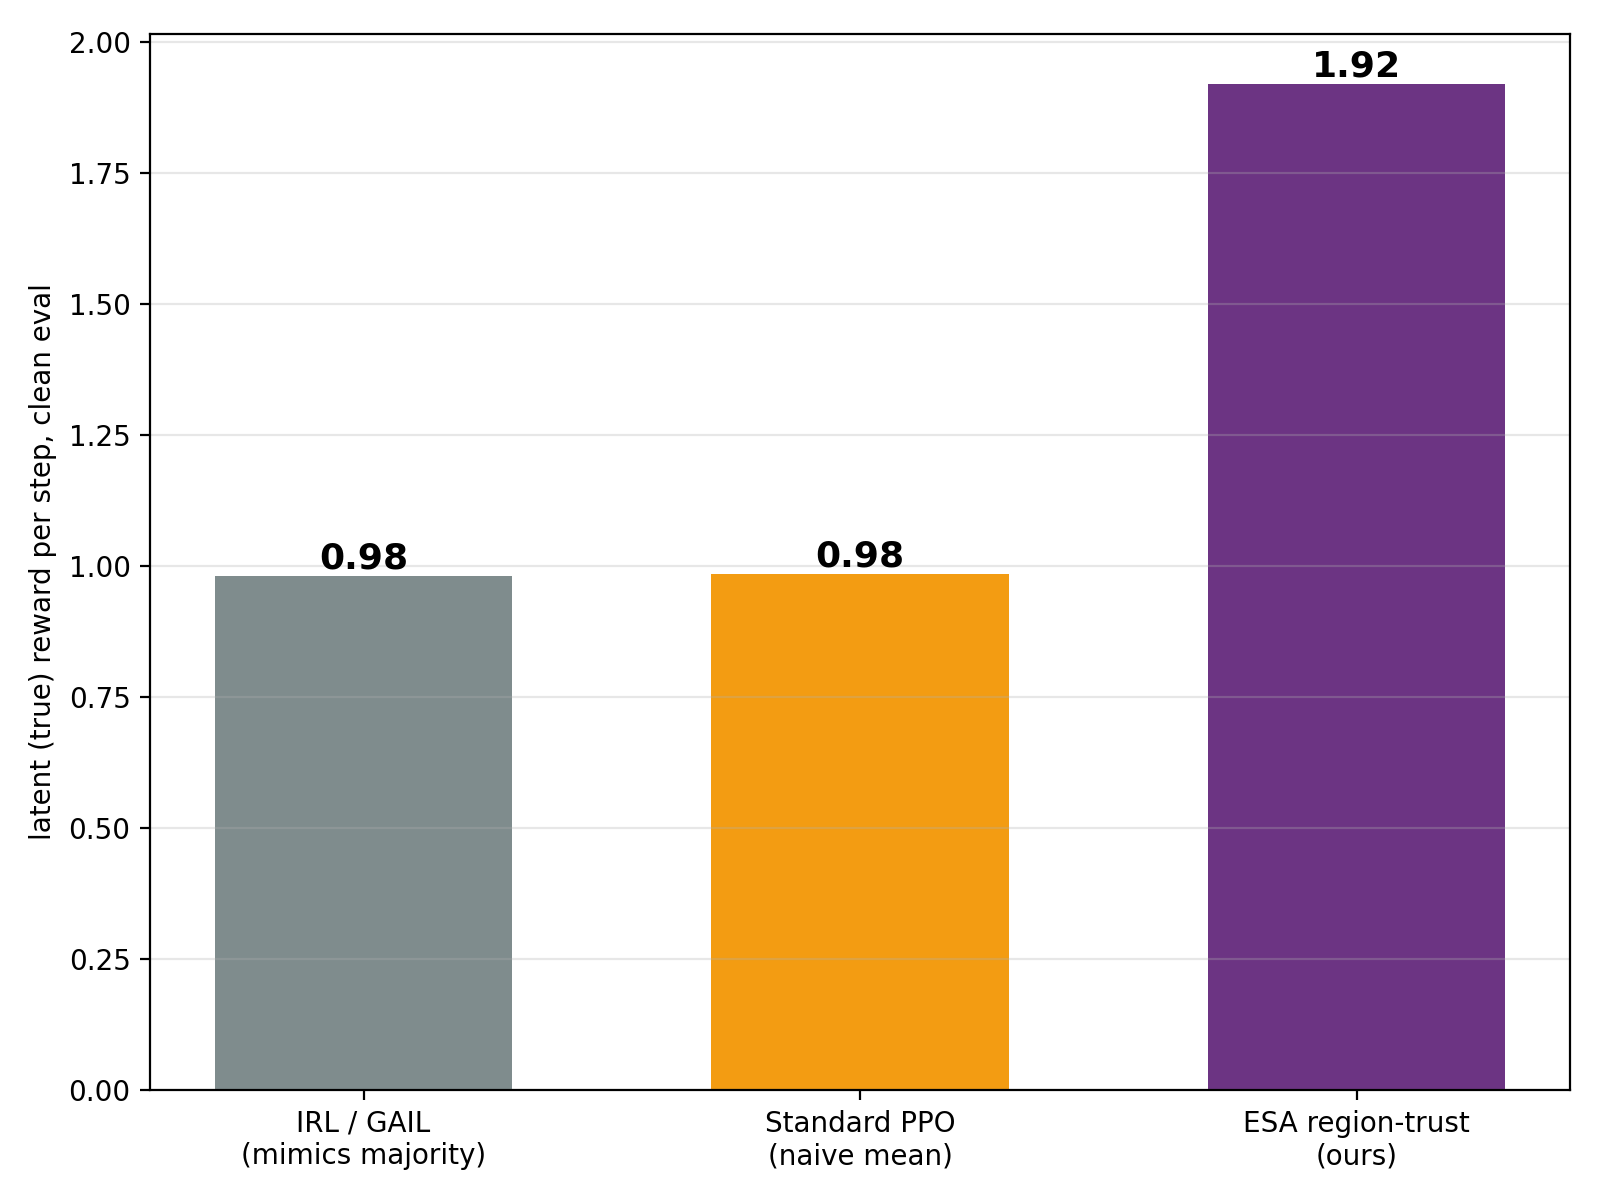
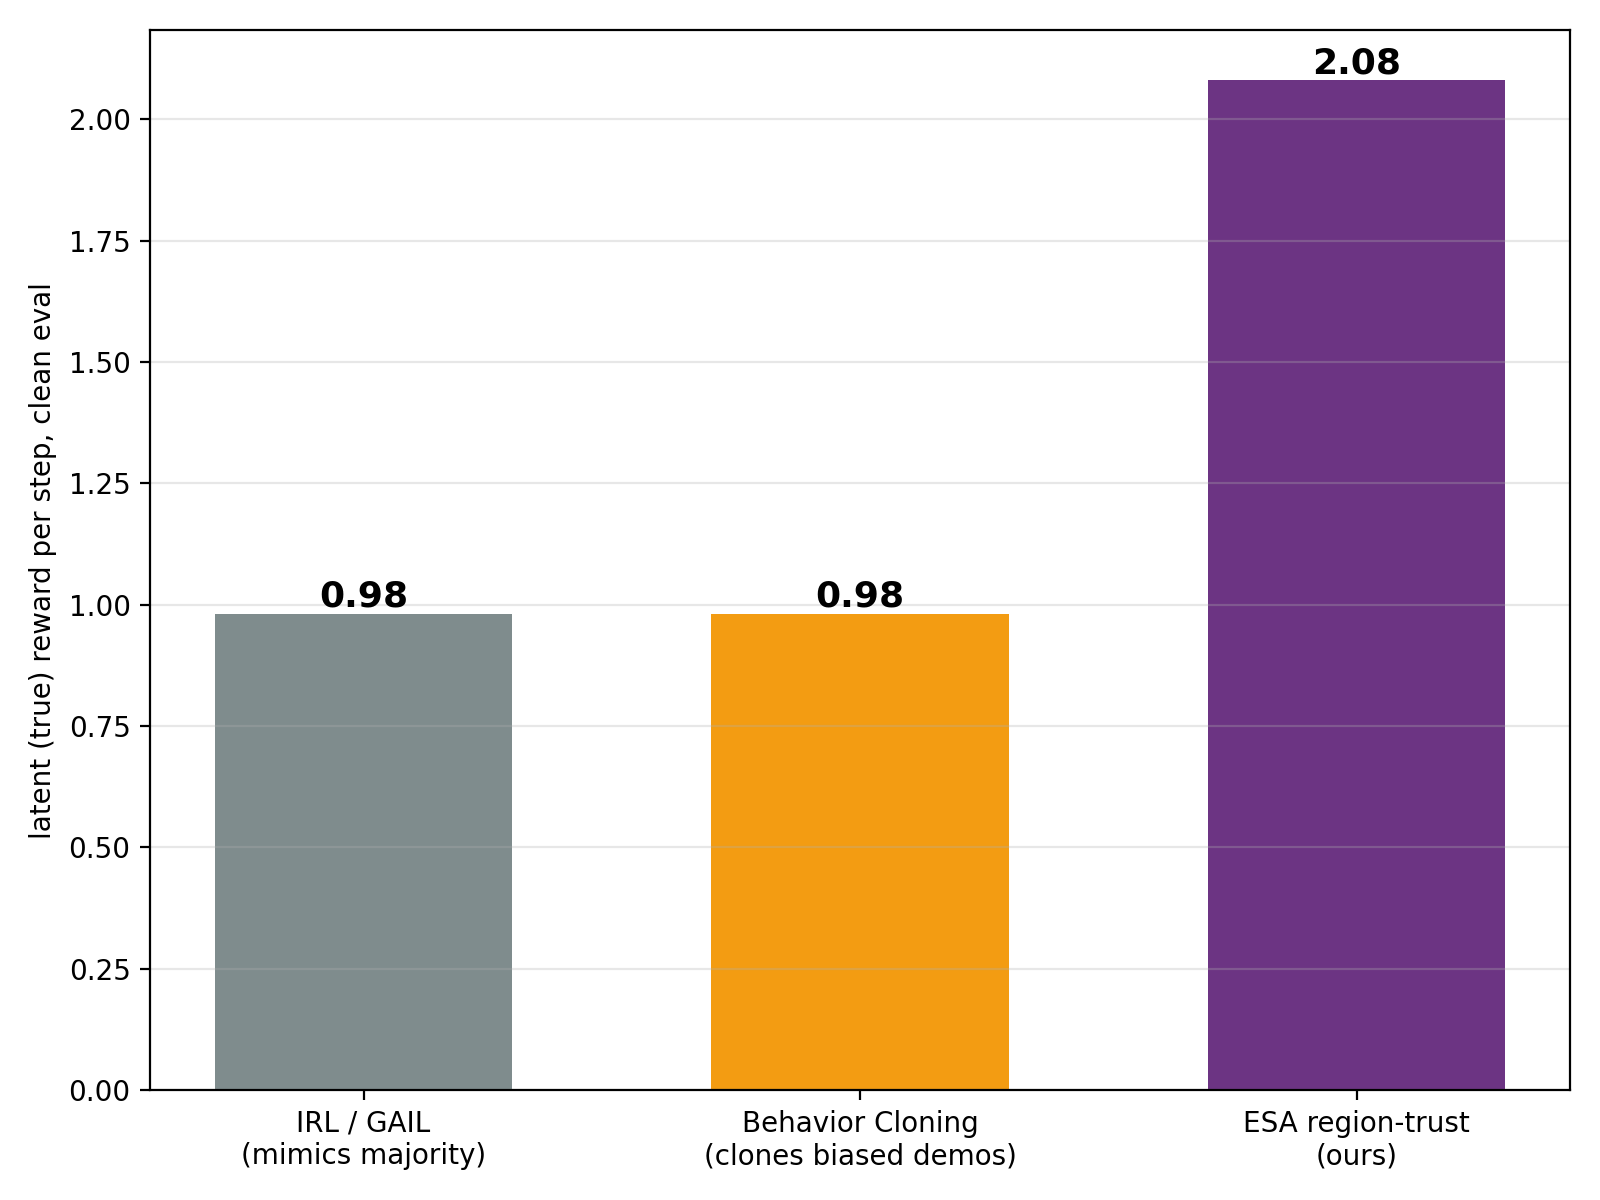
hopper imitation figure: drop Standard PPO, add Behavior Cloning
The imitation comparison now shows IRL/GAIL, Behavior Cloning, and ESA (PPO removed).
BC is a supervised MLP fit to (state->action) demonstrations rolled out from the
biased sycophantic-reward expert -- pure imitation, no reward. Both imitation
baselines reproduce the biased low-velocity behavior (latent 0.98) while ESA recovers
forward hopping (2.08). Figure regenerated title-free.

diff --git a/exp_mdp_hopper_irl.py b/exp_mdp_hopper_irl.py
@@ -1,19 +1,21 @@
 """
-v2 rewrite of the IRL/GAIL comparison in advanced_experiments.py
+v2 rewrite of the imitation comparison in advanced_experiments.py
 (advanced_experiments_irl.png).
 
-An IRL/GAIL agent recovers a reward by imitating the demonstrator/majority. When
-the majority is sycophantic (lazy: y = latent - 2*v_x), imitation reproduces the
+Imitation learners recover behavior/reward from a demonstrator. When the
+demonstrator is sycophantic (lazy: y = latent - 2*v_x), imitation reproduces the
 biased objective and the recovered policy stops hopping. ESA instead audits the
-source against the reference and keeps the latent objective. We train:
+source against the reference and keeps the latent objective. We compare:
 
-  * IRL/GAIL proxy : PPO on the sycophantic reward directly (mimics the biased
-                     majority) -- the imitation baseline.
-  * Standard PPO   : PPO on the naive mean of the 80% biased panel.
-  * ESA (ours)     : PPO on the region-trust ESA reward (esa_mdp.ContextualTrust).
+  * IRL / GAIL       : PPO on the sycophantic reward directly (recovers & optimizes
+                       the biased reward -- inverse-RL / adversarial-imitation proxy).
+  * Behavior Cloning : supervised MLP fit to (state -> action) on demonstrations
+                       rolled out from the biased expert; no reward, pure imitation.
+  * ESA (ours)       : PPO on the region-trust ESA reward (esa_mdp.ContextualTrust).
 
-then evaluate every trained policy on the CLEAN latent Hopper reward and bar-chart
-the mean latent reward per step. MuJoCo + SB3.
+Every trained policy is evaluated on the CLEAN latent Hopper reward and bar-charted.
+Both imitation baselines reproduce the biased low-velocity behavior; only ESA
+recovers forward hopping. MuJoCo + SB3 + a small torch BC head.
 """
 import argparse
 import numpy as np
@@ -26,25 +28,72 @@ from exp_mdp_hopper import StrategicHopperWrapper
 
 
 class SycophanticRewardWrapper(gym.Wrapper):
-    """The demonstrator's (biased) reward the IRL/GAIL agent imitates."""
+    """The demonstrator's (biased) reward the imitation learners see."""
     def step(self, action):
         obs, latent, term, trunc, info = self.env.step(action)
         xv = info.get("x_velocity", latent)
         return obs, latent - 2.0 * xv, term, trunc, info
 
 
-def train(kind, timesteps, seed):
+def train_ppo(kind, timesteps, seed):
     def make():
         e = gym.make("Hopper-v4", render_mode=None)
         if kind == "irl":
             return SycophanticRewardWrapper(e)
         return StrategicHopperWrapper(e, {"rewards": [], "liar_weight": [],
-                                          "bias_mag": [], "audits": []},
-                                      method="standard" if kind == "standard" else "esa")
+                                          "bias_mag": [], "audits": []}, method="esa")
     env = VecMonitor(DummyVecEnv([make]))
     model = PPO("MlpPolicy", env, verbose=0, device="auto", seed=seed)
     model.learn(total_timesteps=timesteps)
     return model
+
+
+def collect_demos(model, n=8000, seed=7):
+    env = gym.make("Hopper-v4", render_mode=None)
+    obs, _ = env.reset(seed=seed)
+    O, A = [], []
+    for _ in range(n):
+        a, _ = model.predict(obs, deterministic=True)
+        O.append(np.asarray(obs, dtype=np.float32)); A.append(np.asarray(a, dtype=np.float32))
+        obs, _, term, trunc, _ = env.step(a)
+        if term or trunc:
+            obs, _ = env.reset()
+    env.close()
+    return np.array(O, dtype=np.float32), np.array(A, dtype=np.float32)
+
+
+class BCAgent:
+    """Behavior cloning: MLP fit to (state -> action) demonstrations; SB3-style predict."""
+    def __init__(self, obs_dim, act_dim):
+        import torch.nn as nn
+        self.net = nn.Sequential(nn.Linear(obs_dim, 256), nn.ReLU(),
+                                 nn.Linear(256, 256), nn.ReLU(), nn.Linear(256, act_dim))
+
+    def fit(self, O, A, epochs=300, lr=1e-3, batch=256):
+        import torch
+        Ot, At = torch.tensor(O), torch.tensor(A)
+        opt = torch.optim.Adam(self.net.parameters(), lr)
+        n = len(O)
+        for _ in range(epochs):
+            idx = torch.randperm(n)
+            for b in range(0, n, batch):
+                j = idx[b:b + batch]
+                opt.zero_grad()
+                loss = ((self.net(Ot[j]) - At[j]) ** 2).mean()
+                loss.backward(); opt.step()
+        return self
+
+    def predict(self, obs, deterministic=True):
+        import torch
+        with torch.no_grad():
+            a = self.net(torch.tensor(np.asarray(obs, dtype=np.float32))).numpy()
+        return a, None
+
+
+def train_bc(timesteps, seed):
+    expert = train_ppo("irl", timesteps, seed)          # biased (sycophantic) expert
+    O, A = collect_demos(expert)
+    return BCAgent(O.shape[1], A.shape[1]).fit(O, A)
 
 
 def eval_latent(model, steps=3000, seed=123):
@@ -68,12 +117,12 @@ if __name__ == "__main__":
     args = ap.parse_args()
 
     kinds = [("irl", "IRL / GAIL\n(mimics majority)", "#7F8C8D"),
-             ("standard", "Standard PPO\n(naive mean)", "#F39C12"),
+             ("bc", "Behavior Cloning\n(clones biased demos)", "#F39C12"),
              ("esa", "ESA region-trust\n(ours)", "#6C3483")]
     scores = {}
     for k, _, _ in kinds:
         print(f"training {k} ...", flush=True)
-        m = train(k, args.timesteps, args.seed)
+        m = train_bc(args.timesteps, args.seed) if k == "bc" else train_ppo(k, args.timesteps, args.seed)
         scores[k] = eval_latent(m)
         print(f"  {k}: latent eval reward/step = {scores[k]:.3f}", flush=True)
 